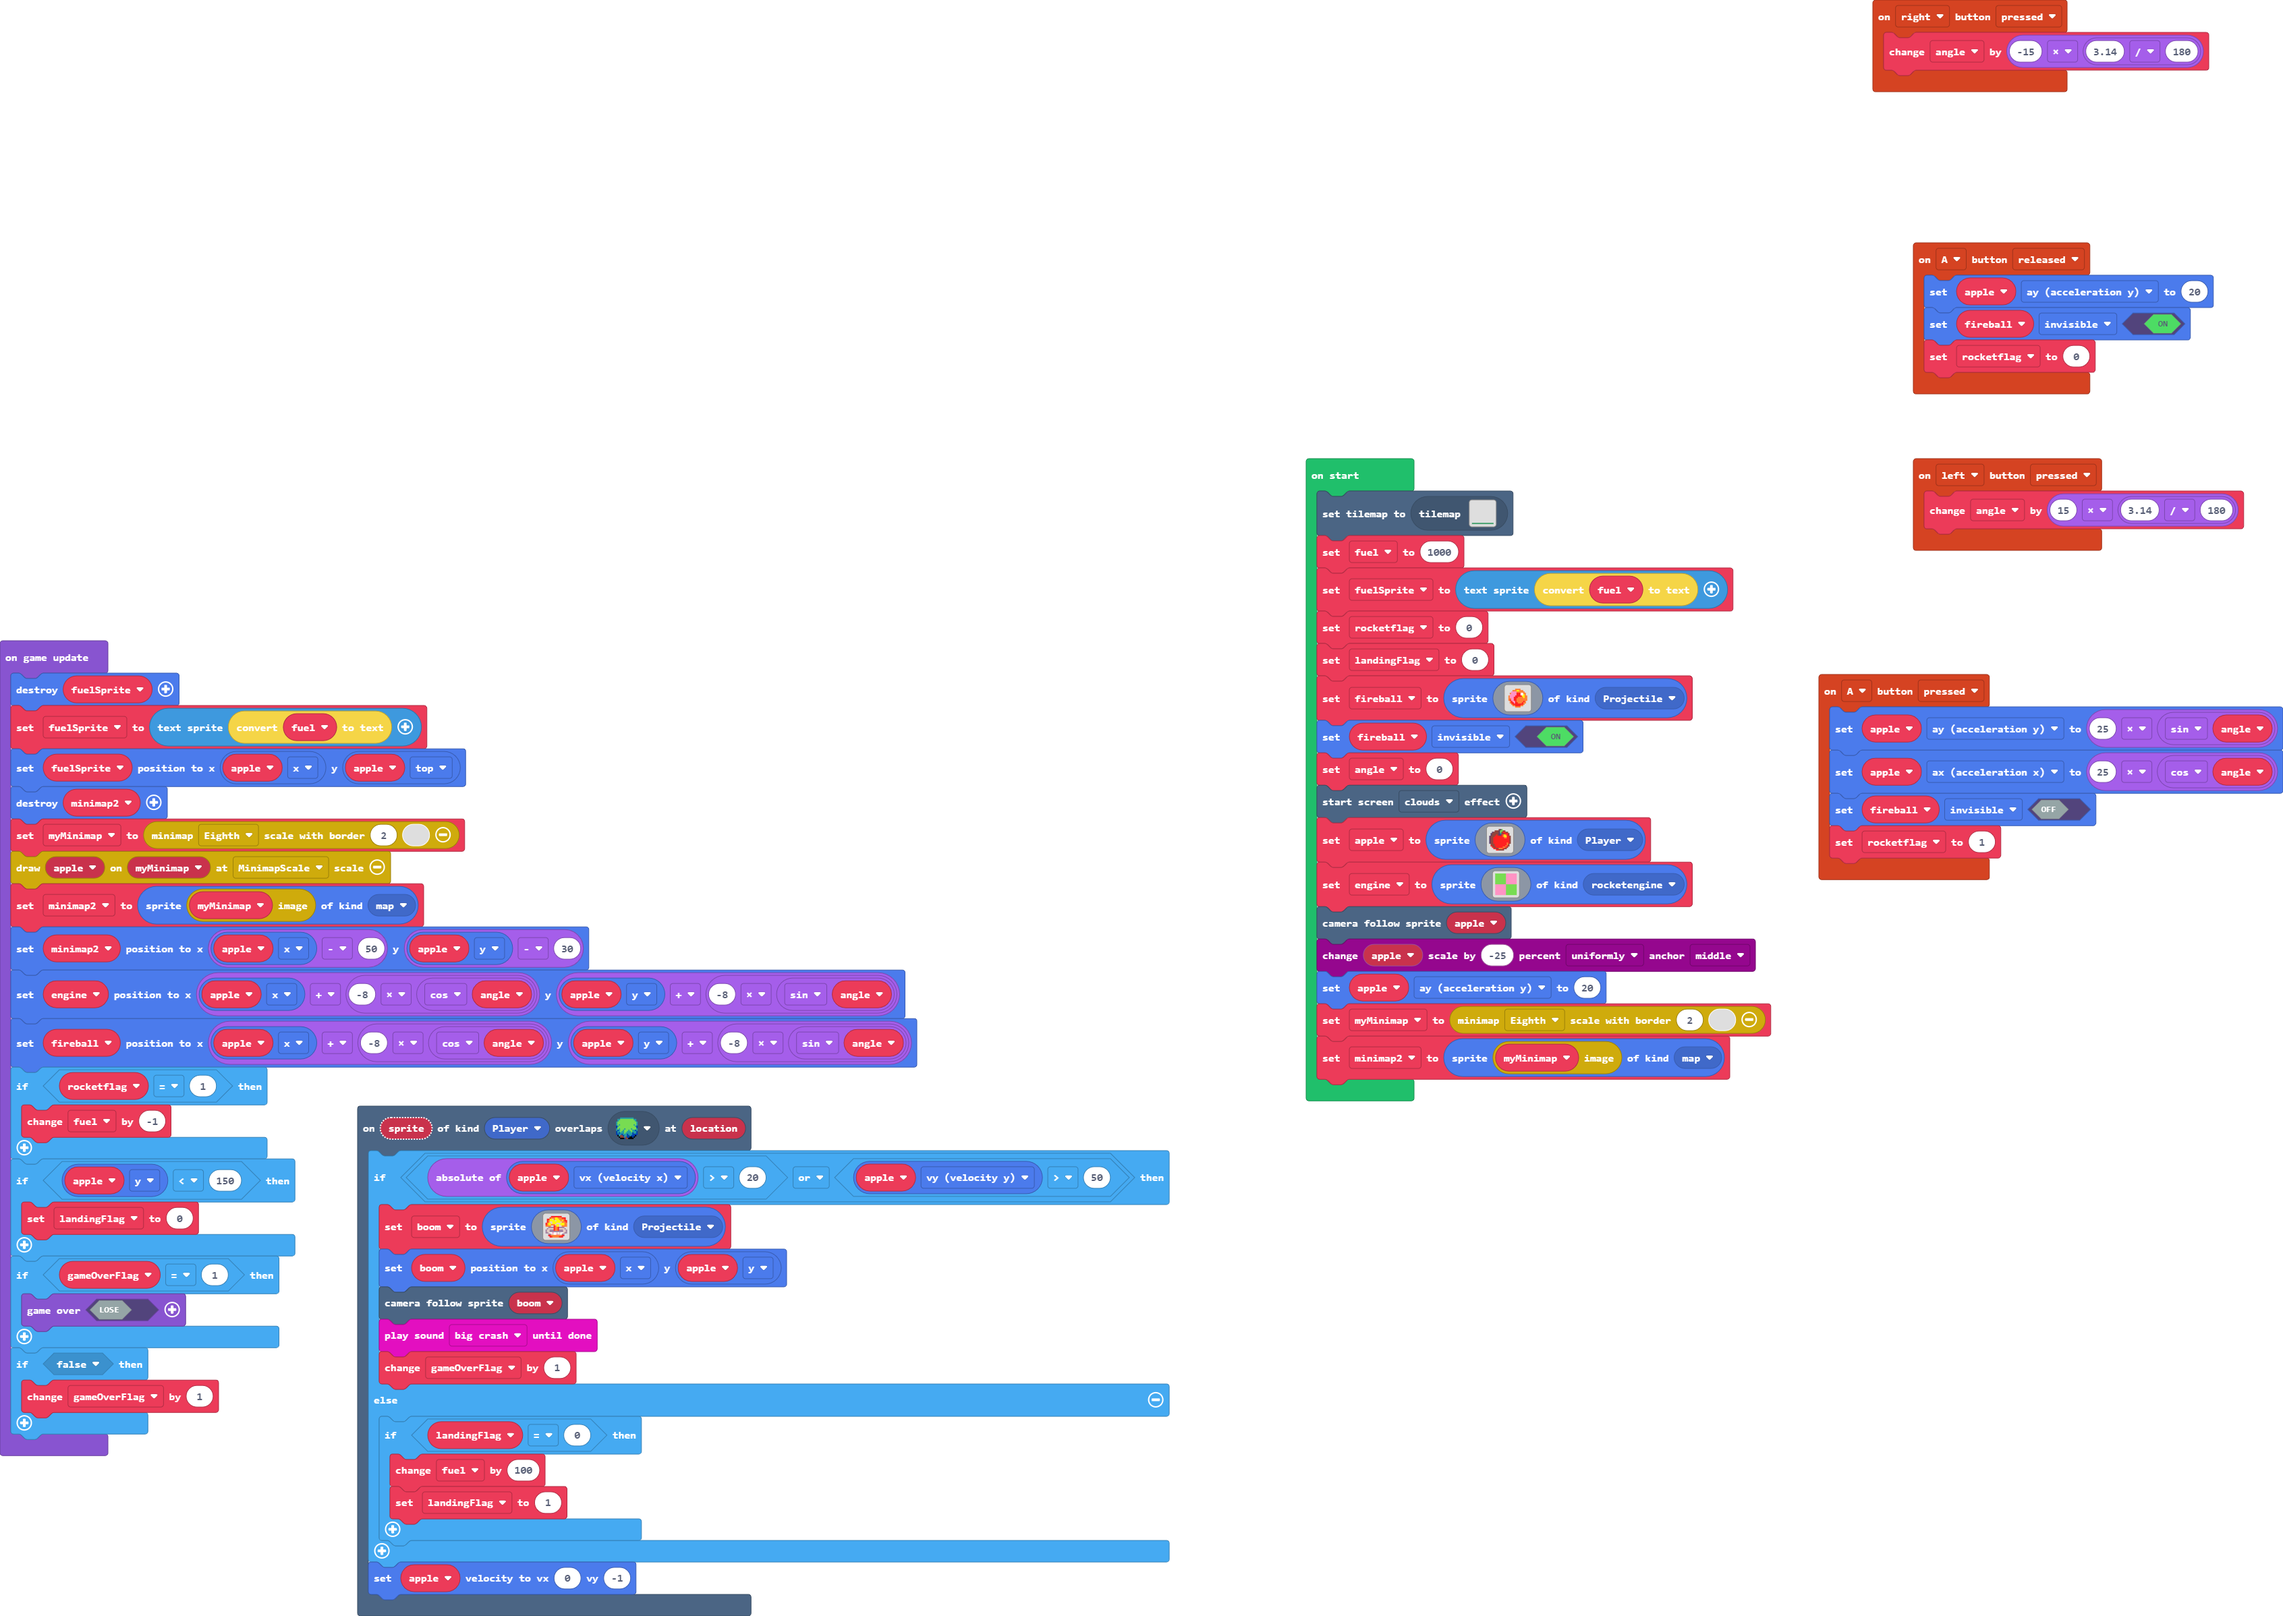
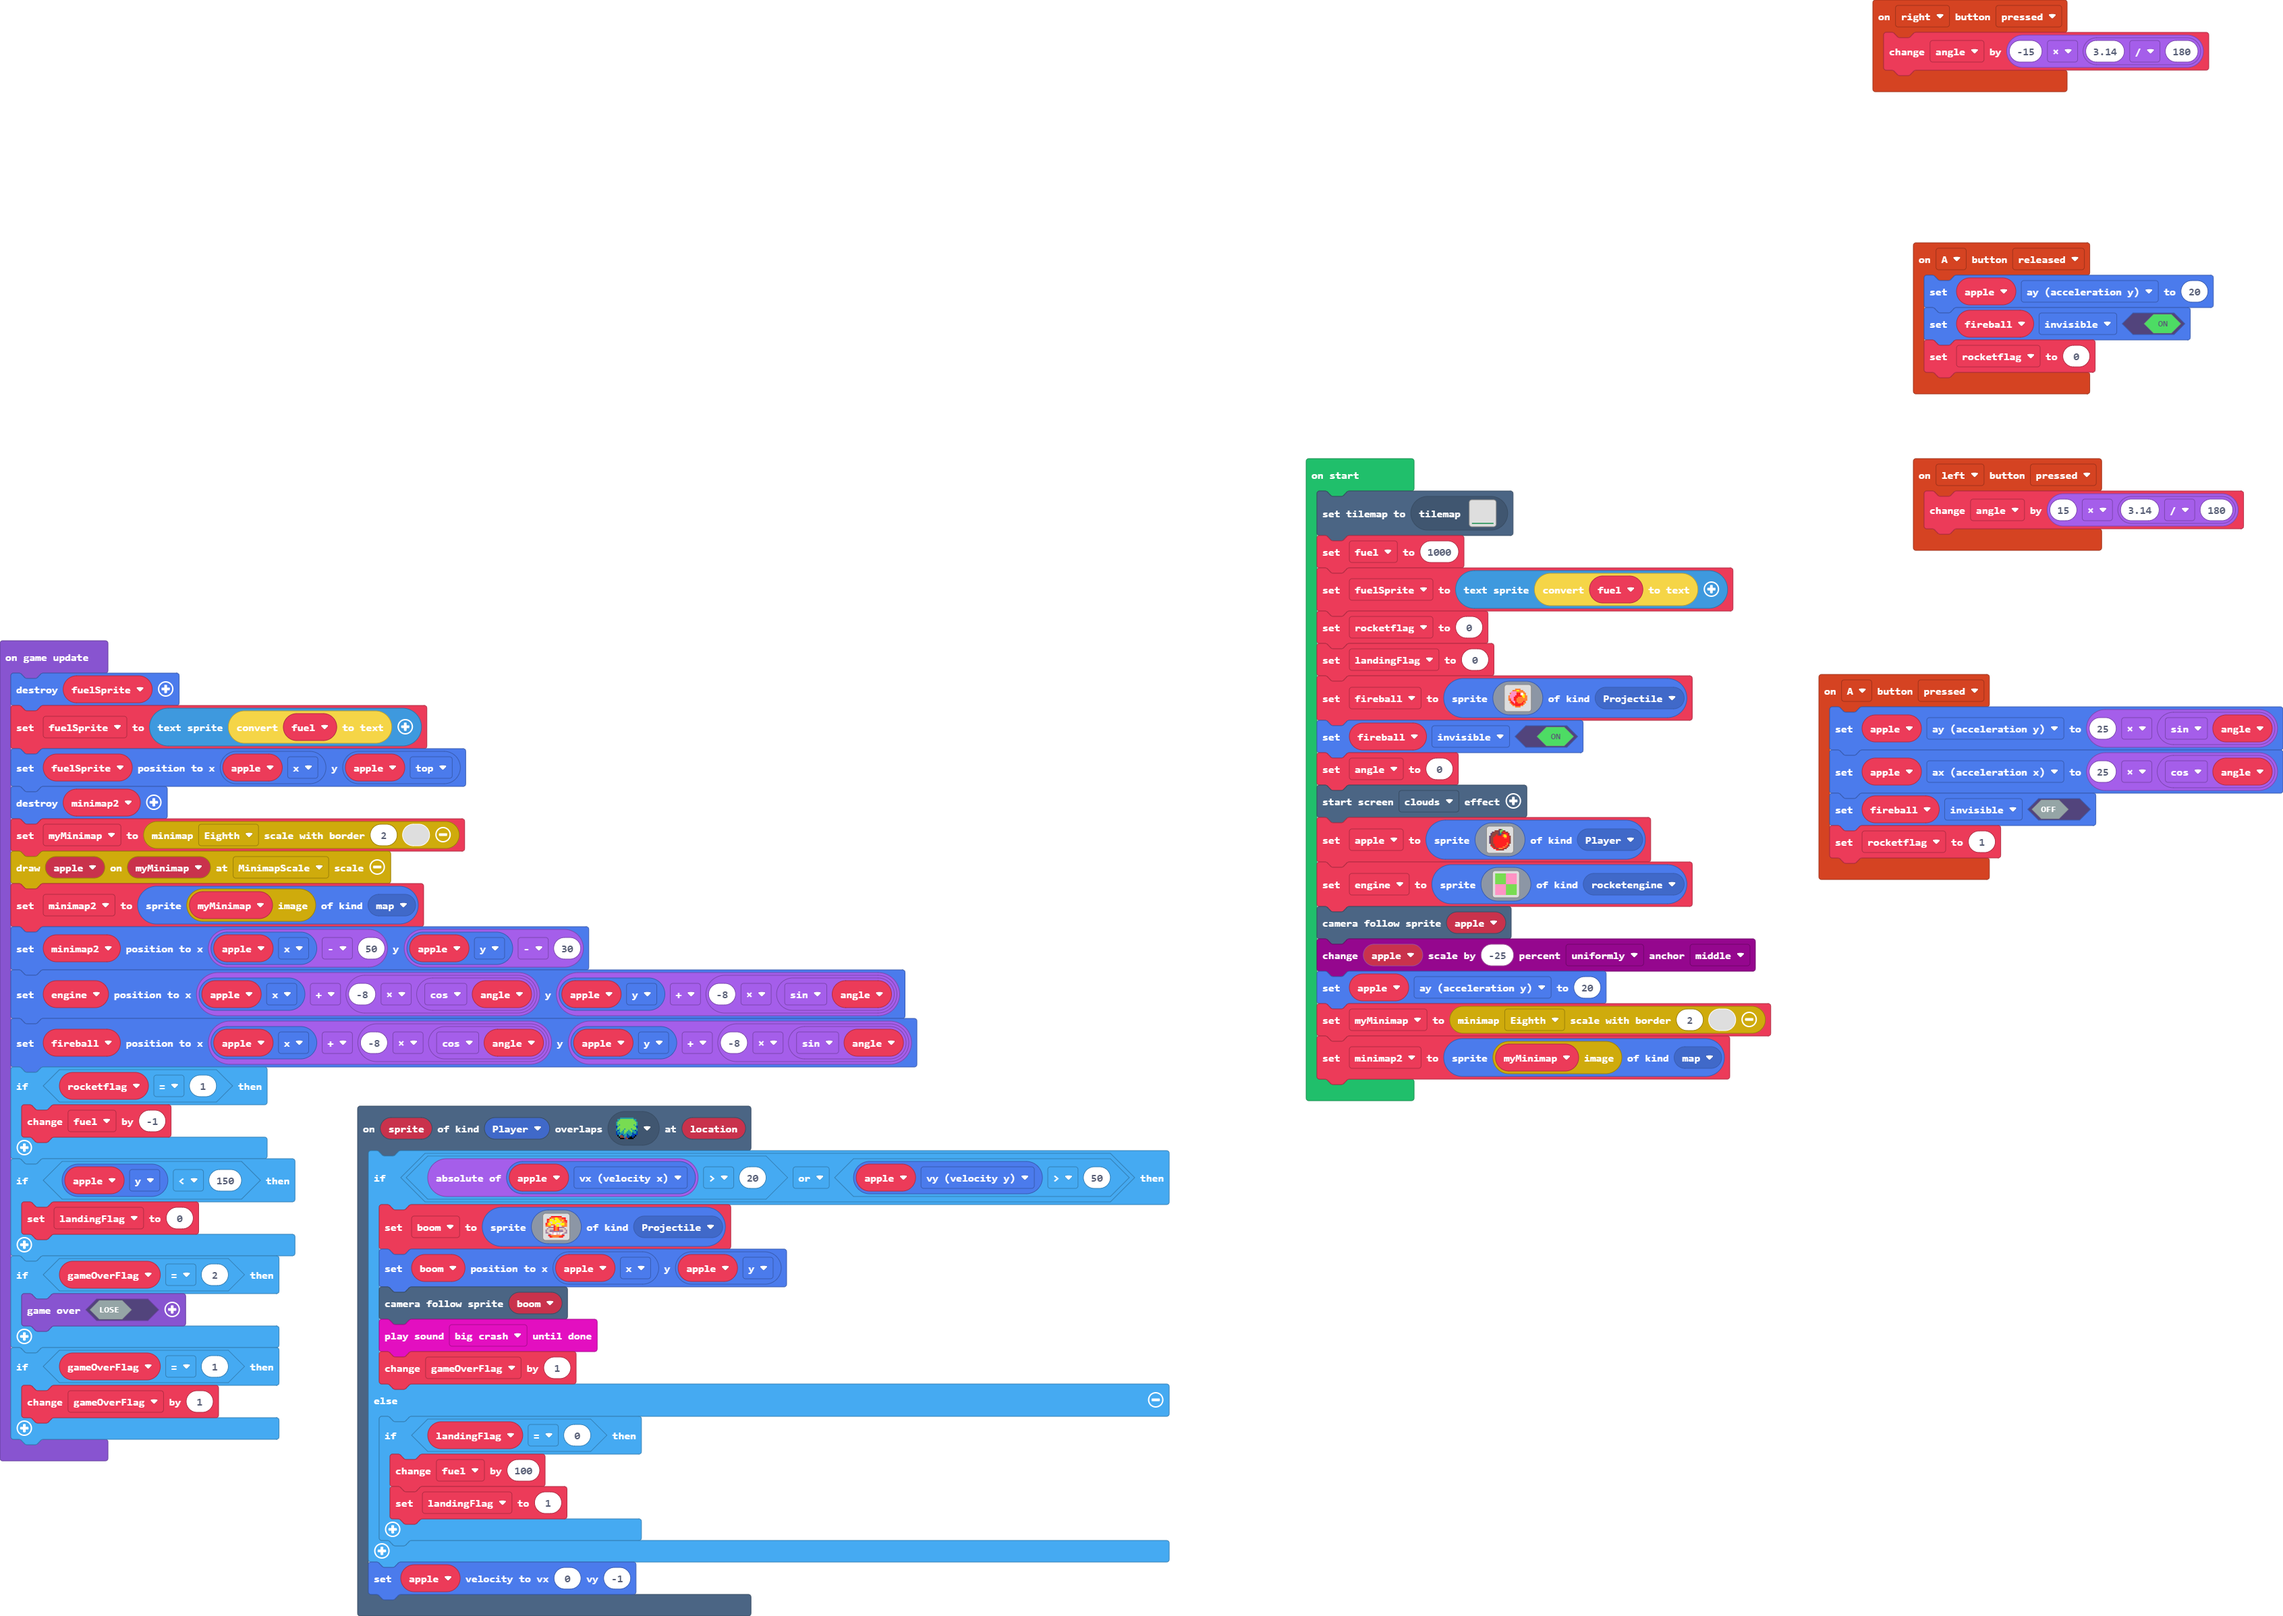
Update pxt.json, main.blocks, main.ts

Changed region(s): [[0.0, 0.8339, 0.1241, 0.9265]]

diff --git a/main.ts b/main.ts
@@ -128,10 +128,10 @@ game.onUpdate(function () {
     if (apple.y < 150) {
         landingFlag = 0
     }
-    if (gameOverFlag == 1) {
+    if (gameOverFlag == 2) {
         game.over(false)
     }
-    if (false) {
+    if (gameOverFlag == 1) {
         gameOverFlag += 1
     }
 })
